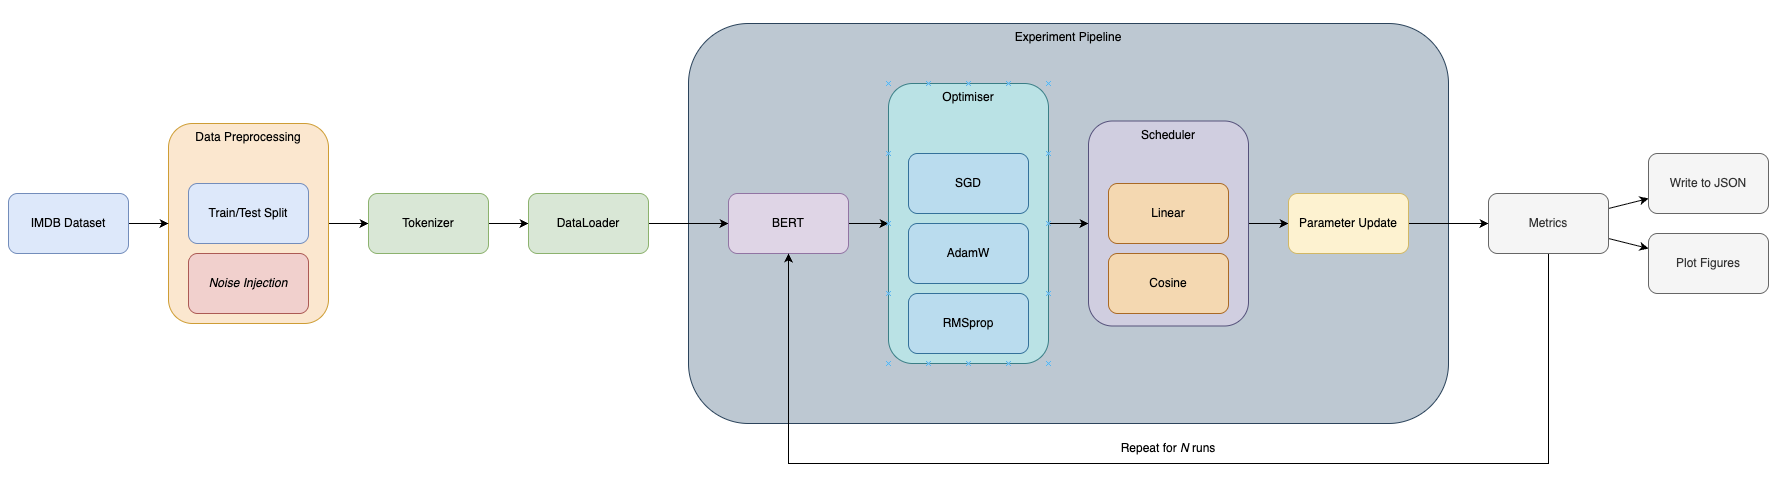
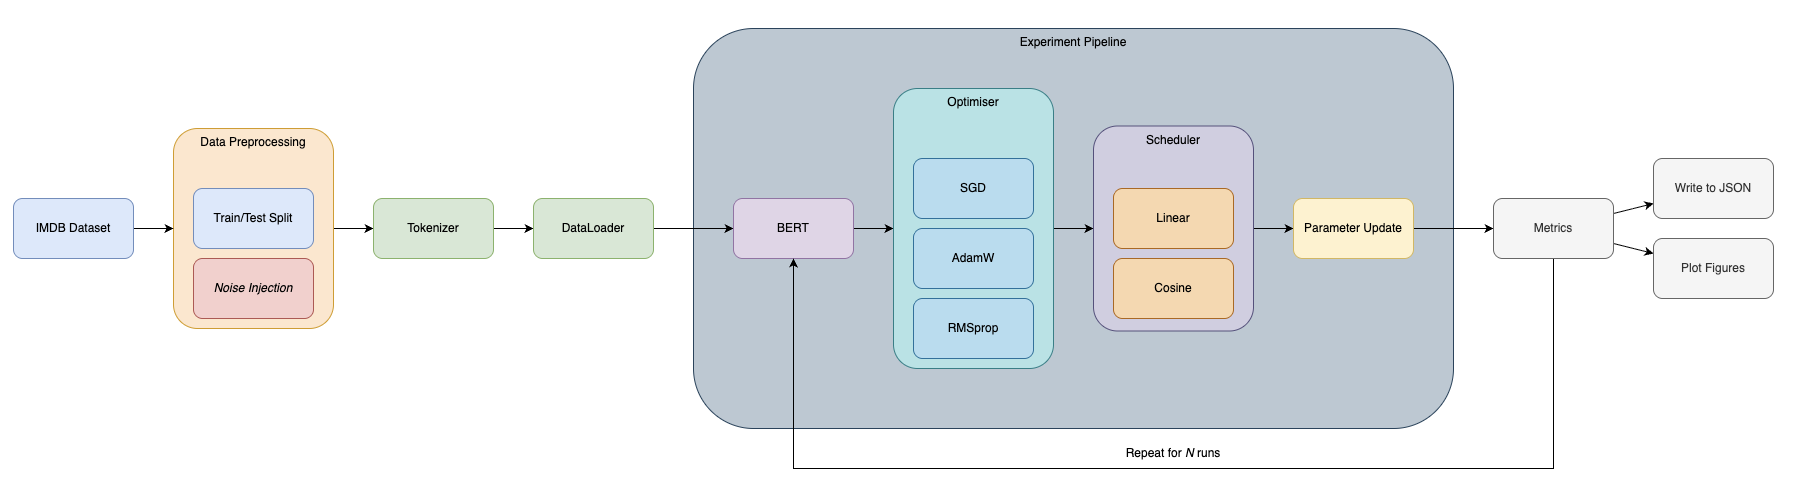
fix: Updated images. Fixed wording in content.

diff --git a/src/resources/content.tsx b/src/resources/content.tsx
@@ -61,7 +61,7 @@ export const about: About = {
     display: true,
     title: "Introduction",
     description: `\
-      Hi, I'm Nathaniel, a software engineer from the University of Queensland, working across software development and sports photography. \
+      Hi, I'm a software engineer working across full-stack software development and sports photography. \
       I enjoy tackling complex, technical challenges to grow my skillset and explore what's possible.\n
       When I'm on the move, I'm experimenting with a range of photography genres, mainly including sports, travel and anything else that catches my eye. \
       After more than a decade of following F1 and the WEC, I've ignited my passion to document motorsport through my own lens.

diff --git a/src/app/page.tsx b/src/app/page.tsx
@@ -120,7 +120,7 @@ export default function Home() {
             paddingBottom="64"
             style={{ letterSpacing: "0px", scrollMarginTop: "100px" }}
           >
-            ISIC Challenge Dataset
+            Featured Case Study
           </Heading>
           <Projects range={[3, 3]} />
         </Column>
